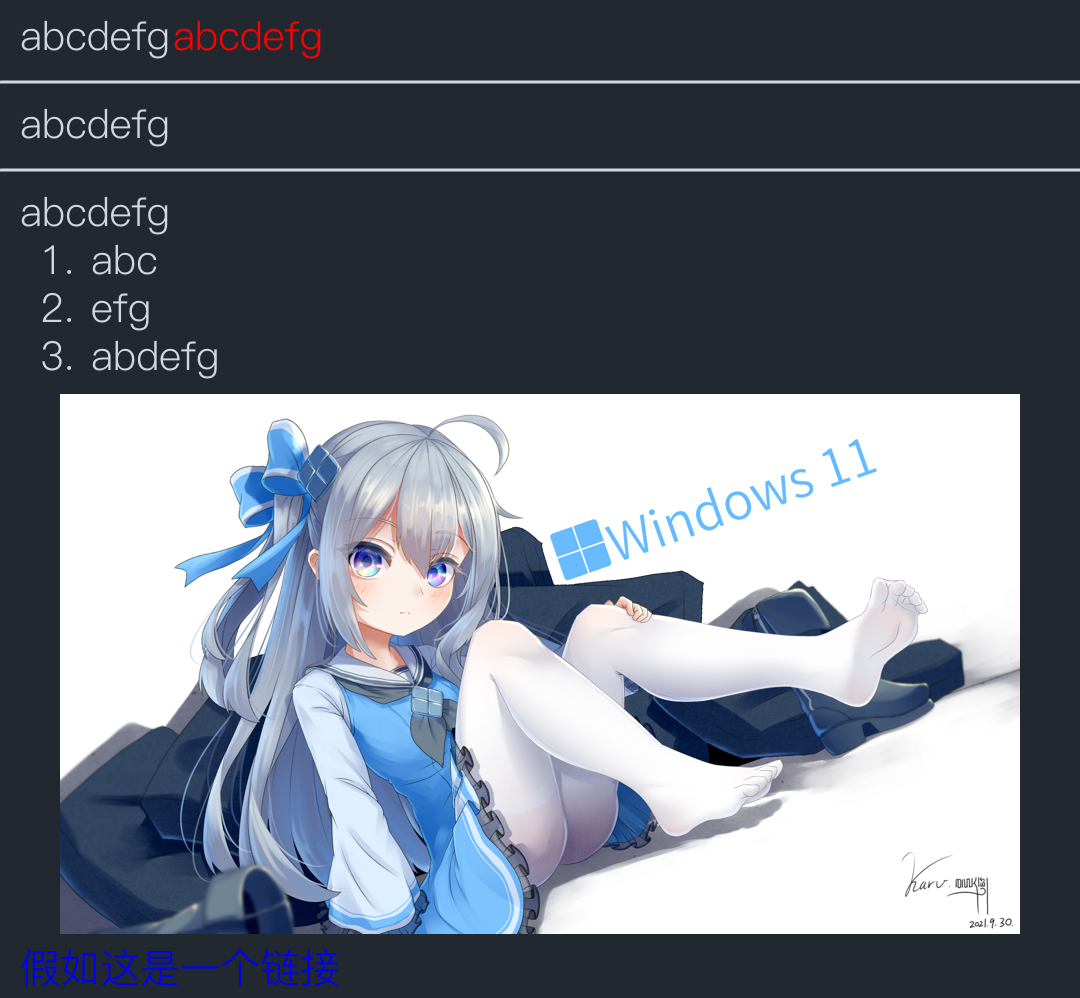
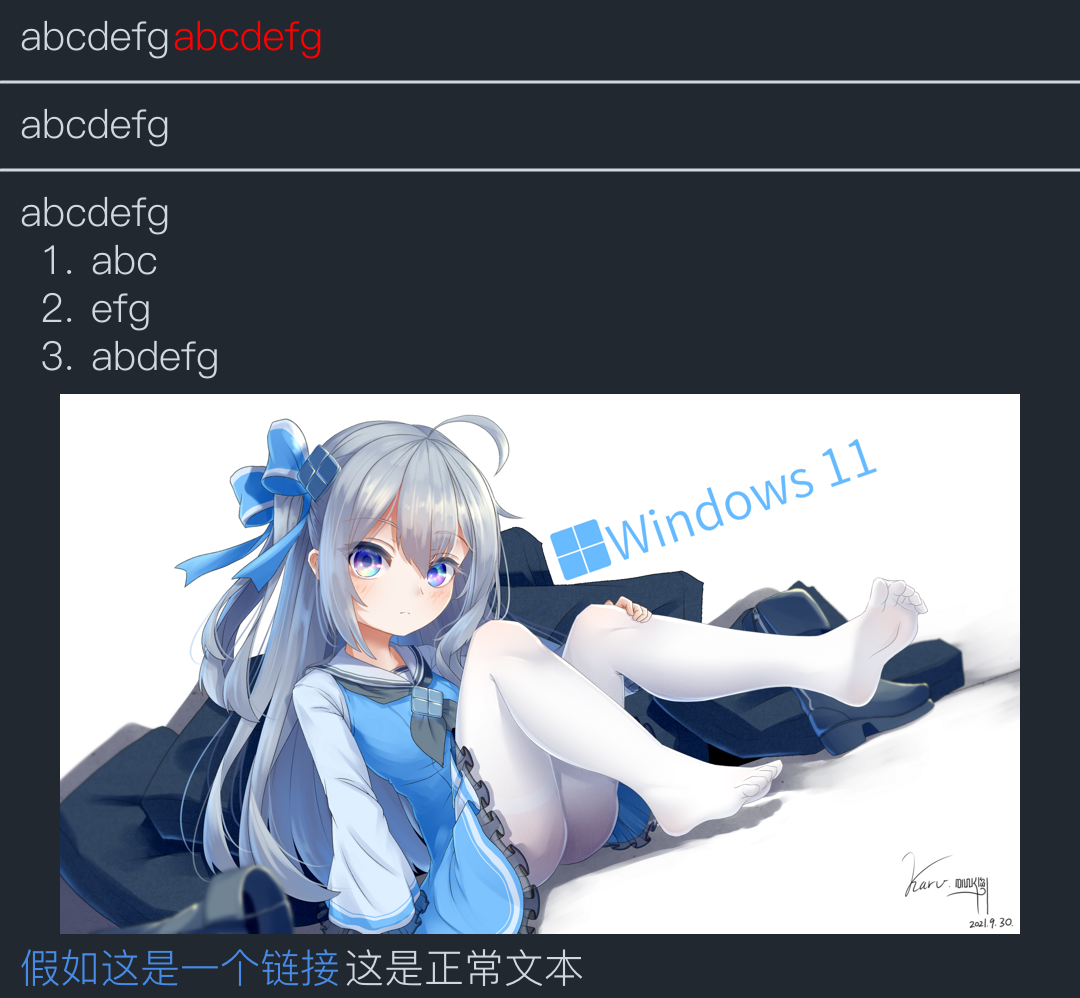
修复几个bug

Changed region(s): [[0.2444, 0.9319, 0.55, 0.994], [0.0306, 0.9319, 0.1833, 0.994]]

diff --git a/RichText.go b/RichText.go
@@ -48,6 +48,7 @@ type Colors struct {
 	CodeBlockBgColor color.Color
 	CodeColor        color.Color
 	CodeNoteColor    color.Color
+	LinkColor        color.Color
 }
 
 func NewRichText(cfg Config) *RichText {
@@ -84,6 +85,11 @@ func (cfg *Config) setDefaultColor() {
 		r, g, b, a := gg.ParseHexColor("#7a818a")
 		cfg.Colors.CodeNoteColor = color.NRGBA{uint8(r), uint8(g), uint8(b), uint8(a)}
 	}
+	if cfg.Colors.LinkColor == nil {
+		r, g, b, a := gg.ParseHexColor("#478be6")
+		cfg.Colors.LinkColor = color.NRGBA{uint8(r), uint8(g), uint8(b), uint8(a)}
+	}
+
 }
 
 func (r *RichText) AppendSegment(rs ...RichTextSegment) {
@@ -94,15 +100,14 @@ func (r *RichText) AppendSegment(rs ...RichTextSegment) {
 }
 
 func (r *RichText) Draw() {
+	r.Align()
 	for k := 0; k < len(r.Segments)-1; k++ {
-		//	r.NextInline = r.Segments[k+1].Inline()
 		r.Segments[k].Draw()
 		//检查余量
 		if r.Height-r.Y < 200 {
 			r.Expansion()
 		}
 	}
-	//	r.NextInline = false
 	r.Segments[len(r.Segments)-1].Draw()
 }
 
@@ -135,6 +140,13 @@ func (r *RichText) Expansion() {
 	r.Cov = newDC
 }
 
+// 防止最后一行时.Inline()==true导致Y没有移动到应该切割的位置,需要补充换行
+func (r *RichText) Align() {
+	if r.Segments[len(r.Segments)-1].Inline() {
+		r.AppendSegment(&TextSegment{Style: TextStyleBlockquote, Text: ""})
+	}
+}
+
 var (
 	//默认文本
 	TextStyleDefault = TextStyle{Inline: true, Size: 40}
@@ -149,7 +161,7 @@ var (
 	//用于List的序号样式
 	TextStyleList = TextStyle{Inline: true, Size: 40}
 	//用于link
-	TextStyleLink = TextStyle{Inline: true, Color: color.RGBA{0, 0, 255, 255}}
+	TextStyleLink = TextStyle{Inline: true}
 	//用于code
 	TextStyleCode = TextStyle{Inline: true}
 	//strong

diff --git a/Hyperlink.go b/Hyperlink.go
@@ -1,6 +1,7 @@
 package marktoimage
 
 import (
+	"image/color"
 	"net/url"
 )
 
@@ -16,6 +17,7 @@ func (h *HyperlinkSegment) Inline() bool {
 	return h.Style.Inline
 }
 func (h *HyperlinkSegment) Draw() {
+	h.Style.Color = h.color()
 	t := TextSegment{Text: h.Text, Style: h.Style}
 	t.SetParent(h.parent)
 	t.Draw()
@@ -23,4 +25,10 @@ func (h *HyperlinkSegment) Draw() {
 
 func (h *HyperlinkSegment) SetParent(r *RichText) {
 	h.parent = r
+}
+func (h *HyperlinkSegment) color() color.Color {
+	if h.Style.Color == nil {
+		return h.parent.Config.Colors.LinkColor
+	}
+	return h.Style.Color
 }

diff --git a/cmd/markdown_test.go b/cmd/markdown_test.go
@@ -67,9 +67,9 @@ func TestRichText(t *testing.T) {
 			Title: "Win11",
 			Width: 960,
 		},
-		&marktoimage.HyperlinkSegment{Style: marktoimage.TextStyle{Inline: false, Color: color.RGBA{0, 0, 255, 255}}, Text: "假如这是一个链接"},
+		&marktoimage.HyperlinkSegment{Style: marktoimage.TextStyleLink, Text: "假如这是一个链接"},
+		&marktoimage.TextSegment{Style: marktoimage.TextStyleDefault, Text: "这是正常文本"},
 	)
-	rt.SetFontSize(marktoimage.TextStyle{Inline: true, Size: 40})
 	rt.Draw()
 	rt.Cut()
 	rt.Cov.SavePNG("test.png")

diff --git a/markdown.go b/markdown.go
@@ -128,7 +128,7 @@ func renderNode(source []byte, n ast.Node, blockquote bool) ([]RichTextSegment, 
 		if t.SoftLineBreak() {
 			return []RichTextSegment{
 				&TextSegment{Style: TextStyleDefault, Text: text},
-				&TextSegment{Style: TextStyleBlockquote, Text: " "},
+				&TextSegment{Style: TextStyleBlockquote, Text: ""},
 			}, nil
 		}
 		return []RichTextSegment{&TextSegment{Style: TextStyleDefault, Text: text}}, nil

diff --git a/Text.go b/Text.go
@@ -34,15 +34,7 @@ func (t *TextSegment) Draw() {
 	}
 }
 
-// func (t *TextSegment) CheckLine() {
-// 	nt := strings.Split(t.Text, "\n")
-// 	for i, v := range nt {
-// 		t := TextSegment{Text: v, Style: t.Style}
-// 		t.Style.Block = true
-// 		t.SetParent(t.parent)
-// 		t.Draw()
-// 	}
-// }
+ 
 
 func (t *TextSegment) color() color.Color {
 	if t.Style.Color == nil {
